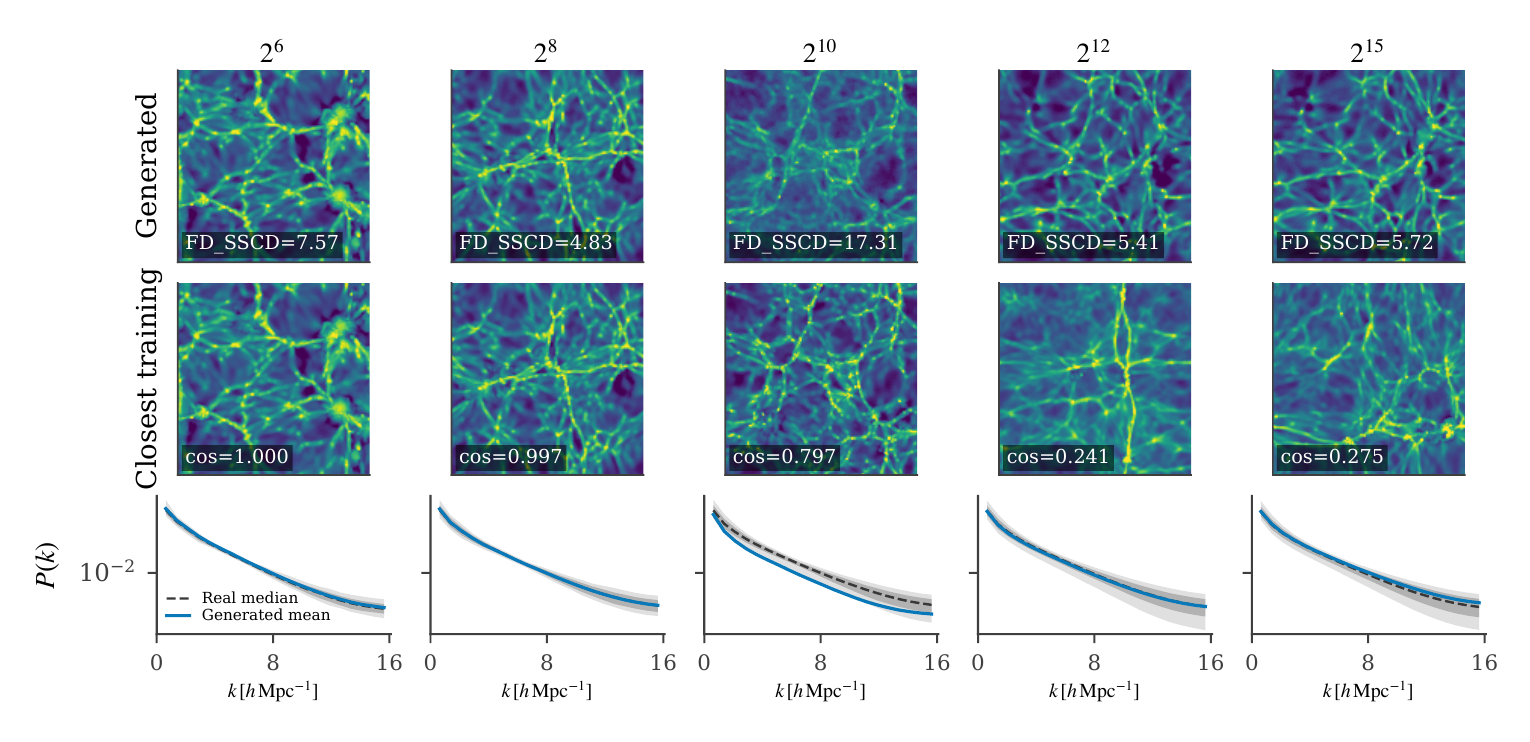
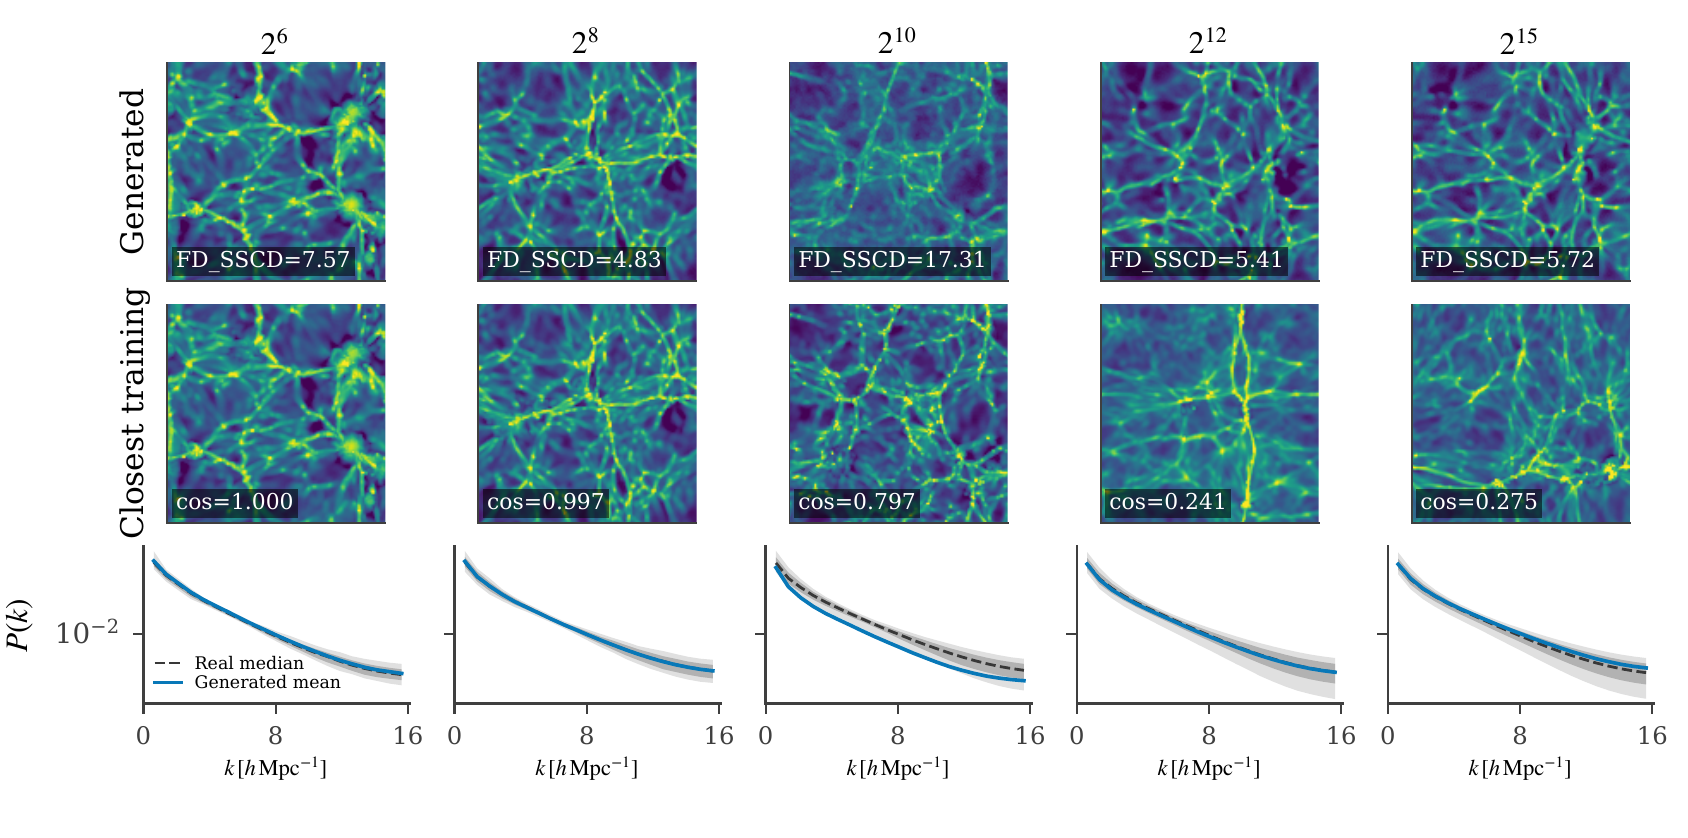
Add figures to work entries; use source figures for the ML4PS post
Claude-Session: https://claude.ai/code/session_01SpwCsWTAAoi8SpTncA3F3t

diff --git a/index.html b/index.html
@@ -276,6 +276,7 @@
 			display: grid;
 			grid-template-columns: 150px minmax(0, 1fr);
 			gap: 46px;
+			align-items: start;
 			padding: 34px 0 38px;
 			border-top: 1px solid var(--border);
 		}
@@ -303,6 +304,31 @@
 
 		.work-copy p {
 			margin: 0 0 12px;
+		}
+
+		.work-row.has-figure {
+			grid-template-columns: 150px minmax(0, 1fr) 320px;
+			gap: 46px 40px;
+		}
+
+		.work-figure {
+			margin: 6px 0 0;
+		}
+
+		.work-figure img {
+			display: block;
+			width: 100%;
+			height: auto;
+			border: 1px solid var(--border);
+			border-radius: 4px;
+			background: #fff;
+		}
+
+		.work-figure figcaption {
+			margin-top: 8px;
+			color: var(--faint);
+			font-size: 12px;
+			line-height: 1.5;
 		}
 
 		.work-copy .methods {
@@ -484,8 +510,13 @@
 			.research-grid,
 			.background-grid,
 			.publication-blog-grid,
-			.work-row {
+			.work-row,
+			.work-row.has-figure {
 				grid-template-columns: 1fr;
+			}
+
+			.work-figure {
+				max-width: 420px;
 			}
 
 			.section-heading {
@@ -698,7 +729,7 @@
 					</div>
 				</article>
 
-				<article class="work-row">
+				<article class="work-row has-figure">
 					<p class="work-meta">Post-training<span>Independent study · 2026</span></p>
 					<div class="work-copy">
 						<h3>RL Post-Training, Quantization, and vLLM Serving</h3>
@@ -714,9 +745,13 @@
 						</div>
 						<p class="methods">PyTorch · TRL · GRPO · AWQ W4G128 · vLLM · FSDP2</p>
 					</div>
+					<figure class="work-figure">
+						<img src="blog/img/accuracy_matrix_test100.png" alt="GSM8K accuracy for base and GRPO models at FP16, NF4, and AWQ W4G128. The GRPO gain survives quantization." loading="lazy" />
+						<figcaption>GSM8K accuracy, base vs GRPO, before and after 4-bit quantization (100 held-out questions).</figcaption>
+					</figure>
 				</article>
 
-				<article class="work-row">
+				<article class="work-row has-figure">
 					<p class="work-meta">Scientific ML<span>Research project · 2026</span></p>
 					<div class="work-copy">
 						<h3>Diffusion Models for Cosmological Simulation Fields</h3>
@@ -732,9 +767,13 @@
 						</div>
 						<p class="methods">PyTorch · Diffusers · Slurm · agentic experiment workflow</p>
 					</div>
+					<figure class="work-figure">
+						<img src="blog/img/ml4ps_fig3_recovery.png" alt="Recovered versus requested Omega_m for conditional diffusion models trained on 128, 1024, and 16384 fields, with coverage curves." loading="lazy" />
+						<figcaption>Recovered &Omega;<sub>m</sub> against the requested value. Only the largest training set tracks the diagonal. From the ML4PS paper.</figcaption>
+					</figure>
 				</article>
 
-				<article class="work-row">
+				<article class="work-row has-figure">
 					<p class="work-meta">Cosmology<span>DESI · 2022–present</span></p>
 					<div class="work-copy">
 						<h3>Model-Agnostic Tests of Gravity with DESI</h3>
@@ -750,6 +789,10 @@
 						</div>
 						<p class="methods">Python · JAX · MCMC · Fisher analysis · Fortran · Slurm</p>
 					</div>
+					<figure class="work-figure">
+						<img src="blog/img/nmc_reconstruction.png" alt="Nonparametric reconstruction of the nonminimal coupling function Omega_EFT against redshift, with 68 and 95 percent bands sitting above zero." loading="lazy" />
+						<figcaption>Reconstructed nonminimal coupling &Omega;<sup>EFT</sup>(z) from DESI DR2, DESY5 SN, and CMB. The GR value is the dashed line at zero. From the PRD Letter.</figcaption>
+					</figure>
 				</article>
 			</div>
 		</section>
